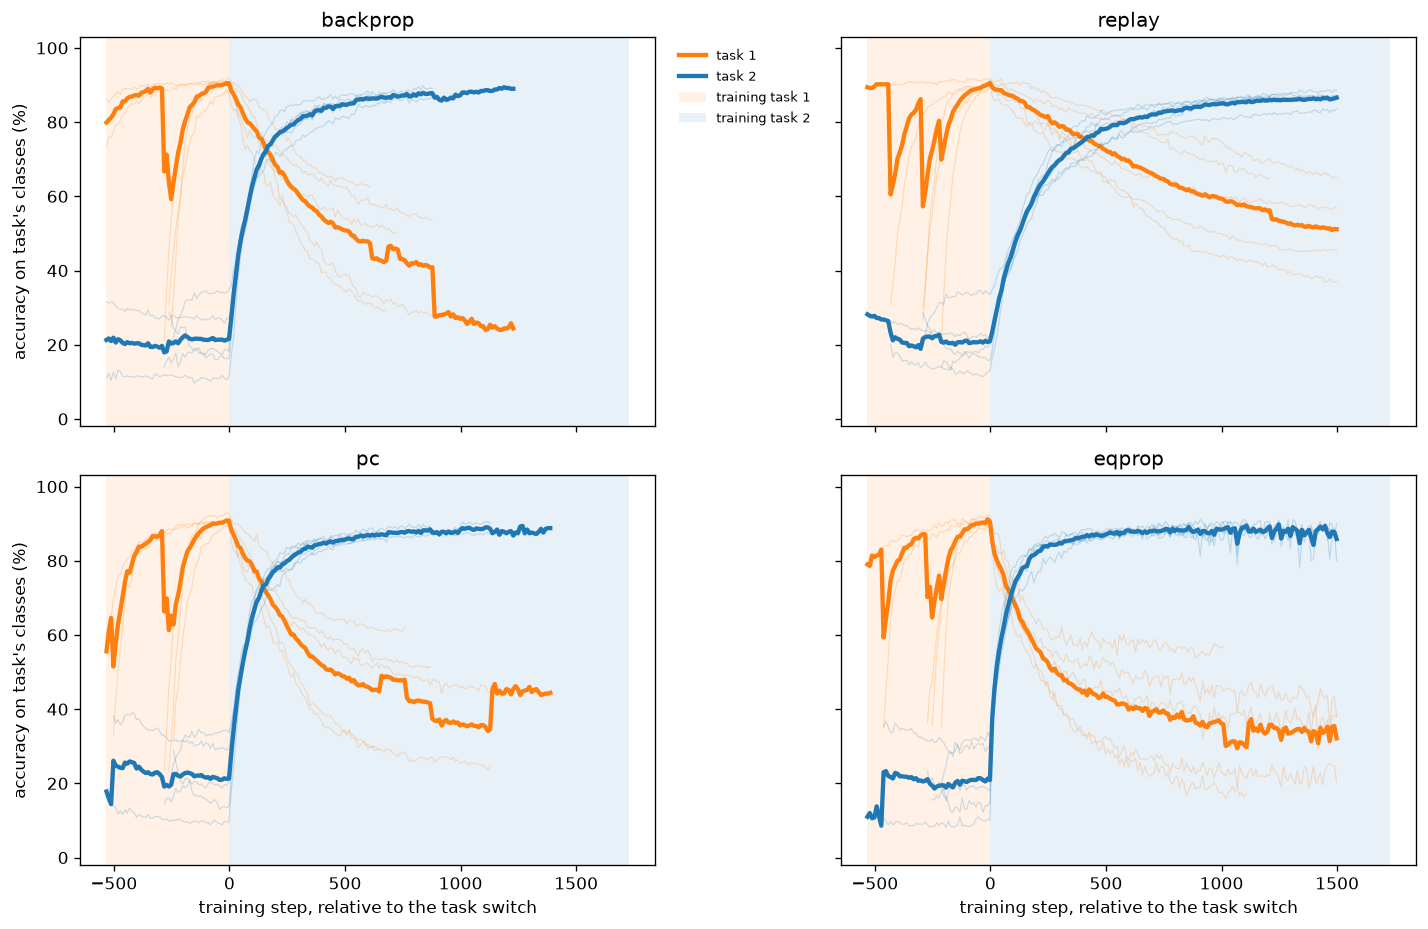
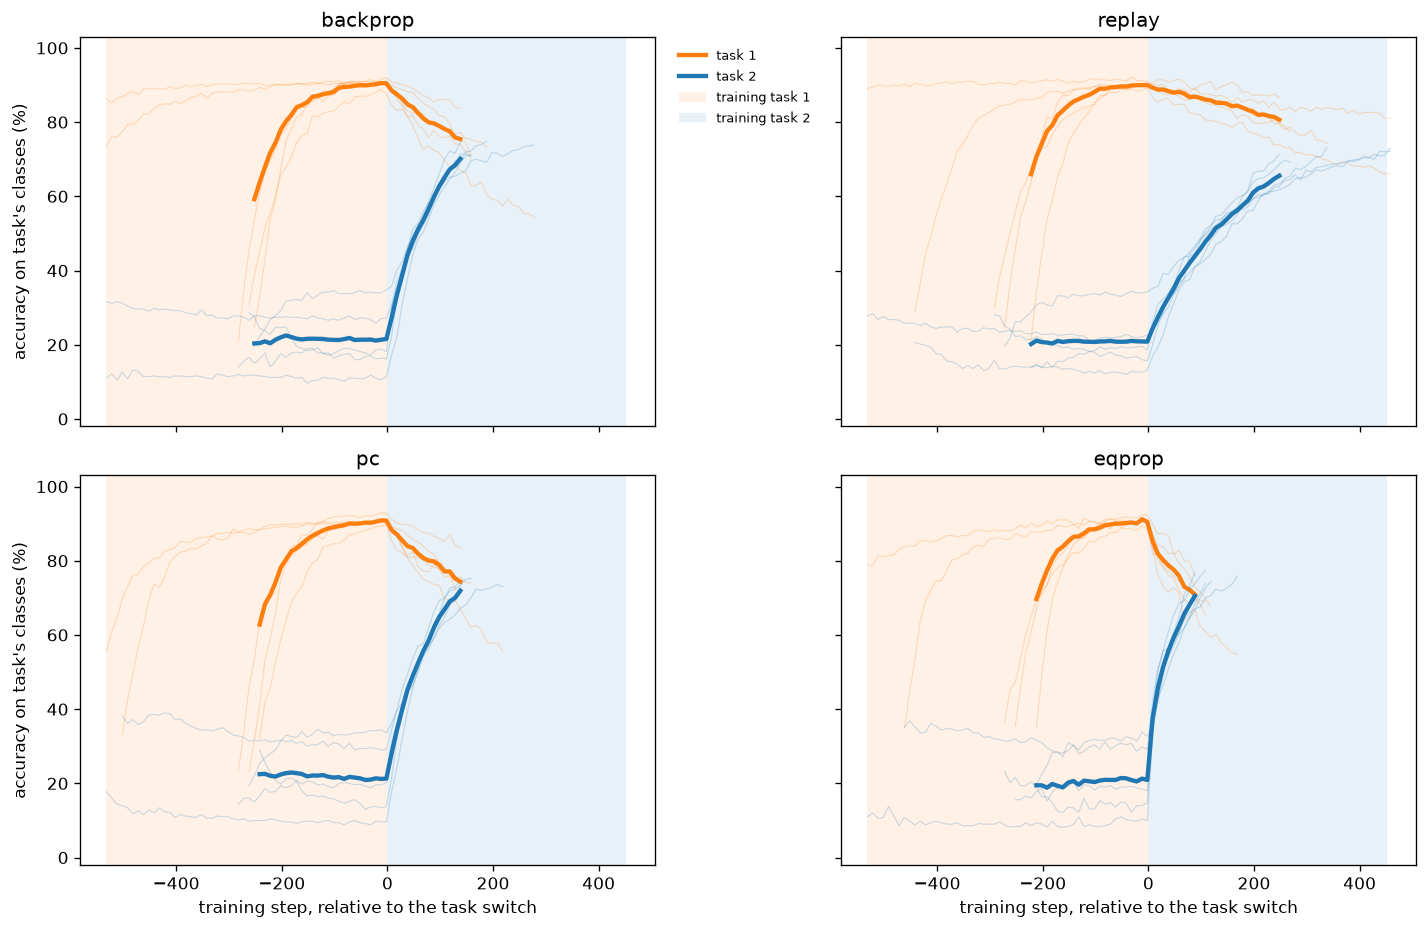
53/57: measure the task-2 threshold under the cap that will be used
Third appearance of the same error class, so it is written into the script
rather than left in a commit message.

53's task-2 threshold was derived from script 52's task-2 "ceilings". But 52
ran a fixed 630-update budget, so those numbers report where each rule had
GOT TO, not where it could get -- replay's 78% was its progress, not its
limit. A ceiling measured under a budget is not a ceiling. Script 41 hit the
identical thing: a short-budget capacity sweep produced a flat region that
looked like a capacity limit and was really the budget binding.

Measured under 53's own 2000-update cap, replay reaches 88.7% and backprop
90.8%, so 85% was available and the derivation had set 70%. At 70% the
reading came far too early to show forgetting: backprop's task-2 block was
186 updates of 2000 and it had fallen only from 90% to 72%, leaving replay
almost nothing to prevent and the four rules within 7 points of each other.

Both scripts now run a pilot that measures the ceiling under MAX_ITERS, the
same cap the real run uses, and set the threshold 3 points below the slowest
rule. Only backprop and replay are piloted: replay spends half of every
batch on task 1 so it is the slowest to learn task 2 and is the binding
constraint, and piloting the energy-based rules would cost more than the
rest of the script.

The control message now distinguishes "replay failed" from "read too early
to tell" by checking how much backprop actually lost. Reporting a working
[…]

diff --git a/experiments/57_do_the_rules_differ_class_il_matched.py b/experiments/57_do_the_rules_differ_class_il_matched.py
@@ -9,7 +9,8 @@ on task 1 -- scripts 42 and 43 measured exactly that -- so an endpoint compariso
 range left and cannot rank anything. Reading at the moment each rule has learned task 2 to one
 standard is the only measurement with anything left to distinguish.
 
-Its task-2 threshold is derived from script 56, so 56 must run first.
+Chance is 10% here, not 20%, and the joint ceiling is 93.6%. Accuracies are NOT comparable with
+the Domain-IL scripts; only the ordering of the rules within a scenario is.
 
 ORIGINAL QUESTION, unchanged: do the rules forget task 1 differently, read at the moment each
 has learned task 2 to the same standard?
@@ -131,30 +132,43 @@ SETTLE_TOL, EQ_MAX_STEPS = float(z51["settle_tol"]), int(z51["eq_max_steps"])
 PC_STEPS = int(z51["pc_steps"])
 T1_THRESHOLD = float(z51["threshold"])          # the standard the learning rates were matched at
 
-# THE TASK-2 T2_THRESHOLD IS DERIVED, NOT ASSUMED, AND THE FIRST ATTEMPT AT THIS SCRIPT FAILED
-# BECAUSE IT WAS ASSUMED. It was set to 90% -- the same as task 1 -- without checking that task
-# 2 can reach 90% from a network already committed to task 1. Replay missed it on 4 of 5 seeds
-# and EqProp on 3, so most runs were never read at matched competence and the whole comparison
-# was void. Task 2 is a harder problem than task 1 was: it starts from a committed network, and
-# replay spends half its gradient preserving task 1 rather than learning the new task.
+# THE TASK-2 THRESHOLD IS MEASURED, UNDER THE CAP THIS SCRIPT ACTUALLY USES. Two attempts got
+# it wrong in different ways, and the second is a repeat of a mistake script 41 already made.
 #
-# So it is read off script 52, which ran the same rules to a long fixed budget and measured what
-# each actually reaches. The threshold is the WORST rule's ceiling with a margin, because a
-# threshold only one rule can reach silently turns the comparison into "the rules that finished,
-# against the rules that were capped".
-z52 = np.load(array_path(str(ROOT / "experiments" /
-                             "56_do_the_rules_differ_class_il.py")))
-reach = {m: float(z52[f"t2_{m}"][0]) for m in [str(x) for x in z52["methods"]]}
-T2_THRESHOLD = np.floor(min(reach.values()) * 0.95 / 5) * 5 / 100    # round down to a 5% step
+#   1. Set to 90% by assumption, the same as task 1. Replay missed it on 4 of 5 seeds, so most
+#      runs were never read at matched competence and the comparison was void.
+#   2. Derived as 70% from script 52's task-2 "ceilings". But 52 ran a FIXED 630-update budget,
+#      so those numbers say where each rule had GOT TO, not where it could get -- replay's 78%
+#      was its progress, not its limit. A CEILING MEASURED UNDER A BUDGET IS NOT A CEILING.
+#      Script 41 hit the same thing: a short-budget capacity sweep produced a flat region that
+#      looked like a capacity limit and was really the budget binding. Measured under this
+#      script's own 2000-update cap, replay reaches 88.7% and backprop 90.8%.
+#      At 70% the reading came far too early to show any forgetting -- backprop's task-2 block
+#      was 186 updates of 2000 and it had fallen only from 90% to 72%, leaving replay with
+#      almost nothing to prevent and the four rules within 7 points of each other.
+#
+# So a pilot measures it here, under MAX_ITERS. Only the two cheap rules are piloted: replay is
+# the slowest to learn task 2 -- it spends half of every batch on task 1 -- so it is the binding
+# constraint, and piloting the energy-based rules would cost more than the rest of the script.
+def _measure_ceiling(data_):
+    """Highest task-2 accuracy the slowest rule actually reaches, under this script's cap."""
+    tops = []
+    for m in ["backprop", "replay"]:
+        p = replace(base, stop_threshold=[T1_THRESHOLD, None], lr={m: LR[m]})
+        for seed in range(SEEDS):
+            o = run(p, m, seed, data=data_)
+            c = o["curves"]["argmax"] * 100
+            i = int(np.argmin(np.abs(np.asarray(o["steps"]) - o["switches"][0])))
+            tops.append(float(c[i:, 1].max()))
+    return min(tops)
+
 
 if "--smoke" in sys.argv:
-    SEEDS, MAX_ITERS, T1_THRESHOLD, T2_THRESHOLD = 1, 60, 0.5, 0.4
+    SEEDS, MAX_ITERS, T1_THRESHOLD = 1, 60, 0.5
     print("--smoke: tiny budget, results are NOT meaningful\n")
 
-print(f"H = {HIDDEN} (41) | task 1 stops at {T1_THRESHOLD:.0%}, task 2 at {T2_THRESHOLD:.0%}"
-      f" | cap {MAX_ITERS} | {SEEDS} seeds")
-print("  task-2 threshold derived from script 52's measured ceilings: "
-      + ", ".join(f"{m} {v:.0f}%" for m, v in reach.items()))
+print(f"H = {HIDDEN} (41) | task 1 stops at {T1_THRESHOLD:.0%} | cap {MAX_ITERS}"
+      f" | {SEEDS} seeds")
 print("  learning rates from 51: " + ", ".join(f"{m} {LR[m]:g}" for m in METHODS) + "\n")
 
 
@@ -168,12 +182,17 @@ def settle_kw(method):
 
 
 base = replace(PROTOCOL, hidden=HIDDEN, scenario="class_il",
-               stop_threshold=[T1_THRESHOLD, T2_THRESHOLD], stop_patience=STOP_PATIENCE,
+               stop_patience=STOP_PATIENCE,
                max_iters_per_task=MAX_ITERS, eval_every=EVAL_EVERY, seeds=SEEDS)
 
 # ---------------------------------------------------------------- run
 # Runs have different lengths, so they are kept as per-seed dicts rather than stacked.
 data = load(base)
+_ceiling = 60.0 if SMOKE else _measure_ceiling(data)
+T2_THRESHOLD = float(np.floor((_ceiling - 3.0) / 5.0) * 5.0 / 100.0)
+print(f"  pilot: the slowest rule reaches {_ceiling:.1f}% on task 2 under a {MAX_ITERS} cap"
+      f"  ->  task 2 stops at {T2_THRESHOLD:.0%}\n")
+base = replace(base, stop_threshold=[T1_THRESHOLD, T2_THRESHOLD])
 runs = {m: [] for m in METHODS}
 t0 = time.perf_counter()
 
@@ -226,8 +245,13 @@ for m in METHODS:
 
 bp, rp = summary["backprop"]["kept"][0], summary["replay"]["kept"][0]
 print(f"\n  controls: backprop keeps {bp:.1f}%, replay keeps {rp:.1f}%.")
+drop = summary["backprop"]["at_switch"][0] - bp
 print("  " + ("Replay recovers task 1, so retention IS achievable here."
               if rp > bp + 10 else
+              f"backprop has lost only {drop:.0f} points by this threshold, so there is barely "
+              f"anything for replay\n  to prevent. The reading is TOO EARLY to separate the "
+              f"rules -- raise the task-2 threshold.\n  This is not a failure of the control."
+              if drop < 30 else
               "REPLAY DID NOT RECOVER TASK 1. The positive control failed; nothing else on this "
               "figure can be interpreted."))
 for m in METHODS:

diff --git a/experiments/53_do_the_rules_differ_at_matched_competence.py b/experiments/53_do_the_rules_differ_at_matched_competence.py
@@ -118,30 +118,43 @@ SETTLE_TOL, EQ_MAX_STEPS = float(z51["settle_tol"]), int(z51["eq_max_steps"])
 PC_STEPS = int(z51["pc_steps"])
 T1_THRESHOLD = float(z51["threshold"])          # the standard the learning rates were matched at
 
-# THE TASK-2 T2_THRESHOLD IS DERIVED, NOT ASSUMED, AND THE FIRST ATTEMPT AT THIS SCRIPT FAILED
-# BECAUSE IT WAS ASSUMED. It was set to 90% -- the same as task 1 -- without checking that task
-# 2 can reach 90% from a network already committed to task 1. Replay missed it on 4 of 5 seeds
-# and EqProp on 3, so most runs were never read at matched competence and the whole comparison
-# was void. Task 2 is a harder problem than task 1 was: it starts from a committed network, and
-# replay spends half its gradient preserving task 1 rather than learning the new task.
+# THE TASK-2 THRESHOLD IS MEASURED, UNDER THE CAP THIS SCRIPT ACTUALLY USES. Two attempts got
+# it wrong in different ways, and the second is a repeat of a mistake script 41 already made.
 #
-# So it is read off script 52, which ran the same rules to a long fixed budget and measured what
-# each actually reaches. The threshold is the WORST rule's ceiling with a margin, because a
-# threshold only one rule can reach silently turns the comparison into "the rules that finished,
-# against the rules that were capped".
-z52 = np.load(array_path(str(ROOT / "experiments" /
-                             "52_do_the_rules_differ_fixed_budget.py")))
-reach = {m: float(z52[f"t2_{m}"][0]) for m in [str(x) for x in z52["methods"]]}
-T2_THRESHOLD = np.floor(min(reach.values()) * 0.95 / 5) * 5 / 100    # round down to a 5% step
+#   1. Set to 90% by assumption, the same as task 1. Replay missed it on 4 of 5 seeds, so most
+#      runs were never read at matched competence and the comparison was void.
+#   2. Derived as 70% from script 52's task-2 "ceilings". But 52 ran a FIXED 630-update budget,
+#      so those numbers say where each rule had GOT TO, not where it could get -- replay's 78%
+#      was its progress, not its limit. A CEILING MEASURED UNDER A BUDGET IS NOT A CEILING.
+#      Script 41 hit the same thing: a short-budget capacity sweep produced a flat region that
+#      looked like a capacity limit and was really the budget binding. Measured under this
+#      script's own 2000-update cap, replay reaches 88.7% and backprop 90.8%.
+#      At 70% the reading came far too early to show any forgetting -- backprop's task-2 block
+#      was 186 updates of 2000 and it had fallen only from 90% to 72%, leaving replay with
+#      almost nothing to prevent and the four rules within 7 points of each other.
+#
+# So a pilot measures it here, under MAX_ITERS. Only the two cheap rules are piloted: replay is
+# the slowest to learn task 2 -- it spends half of every batch on task 1 -- so it is the binding
+# constraint, and piloting the energy-based rules would cost more than the rest of the script.
+def _measure_ceiling(data_):
+    """Highest task-2 accuracy the slowest rule actually reaches, under this script's cap."""
+    tops = []
+    for m in ["backprop", "replay"]:
+        p = replace(base, stop_threshold=[T1_THRESHOLD, None], lr={m: LR[m]})
+        for seed in range(SEEDS):
+            o = run(p, m, seed, data=data_)
+            c = o["curves"]["argmax"] * 100
+            i = int(np.argmin(np.abs(np.asarray(o["steps"]) - o["switches"][0])))
+            tops.append(float(c[i:, 1].max()))
+    return min(tops)
+
 
 if "--smoke" in sys.argv:
-    SEEDS, MAX_ITERS, T1_THRESHOLD, T2_THRESHOLD = 1, 60, 0.5, 0.4
+    SEEDS, MAX_ITERS, T1_THRESHOLD = 1, 60, 0.5
     print("--smoke: tiny budget, results are NOT meaningful\n")
 
-print(f"H = {HIDDEN} (41) | task 1 stops at {T1_THRESHOLD:.0%}, task 2 at {T2_THRESHOLD:.0%}"
-      f" | cap {MAX_ITERS} | {SEEDS} seeds")
-print("  task-2 threshold derived from script 52's measured ceilings: "
-      + ", ".join(f"{m} {v:.0f}%" for m, v in reach.items()))
+print(f"H = {HIDDEN} (41) | task 1 stops at {T1_THRESHOLD:.0%} | cap {MAX_ITERS}"
+      f" | {SEEDS} seeds")
 print("  learning rates from 51: " + ", ".join(f"{m} {LR[m]:g}" for m in METHODS) + "\n")
 
 
@@ -155,12 +168,17 @@ def settle_kw(method):
 
 
 base = replace(PROTOCOL, hidden=HIDDEN, scenario="domain_il",
-               stop_threshold=[T1_THRESHOLD, T2_THRESHOLD], stop_patience=STOP_PATIENCE,
+               stop_patience=STOP_PATIENCE,
                max_iters_per_task=MAX_ITERS, eval_every=EVAL_EVERY, seeds=SEEDS)
 
 # ---------------------------------------------------------------- run
 # Runs have different lengths, so they are kept as per-seed dicts rather than stacked.
 data = load(base)
+_ceiling = 60.0 if SMOKE else _measure_ceiling(data)
+T2_THRESHOLD = float(np.floor((_ceiling - 3.0) / 5.0) * 5.0 / 100.0)
+print(f"  pilot: the slowest rule reaches {_ceiling:.1f}% on task 2 under a {MAX_ITERS} cap"
+      f"  ->  task 2 stops at {T2_THRESHOLD:.0%}\n")
+base = replace(base, stop_threshold=[T1_THRESHOLD, T2_THRESHOLD])
 runs = {m: [] for m in METHODS}
 t0 = time.perf_counter()
 
@@ -213,8 +231,13 @@ for m in METHODS:
 
 bp, rp = summary["backprop"]["kept"][0], summary["replay"]["kept"][0]
 print(f"\n  controls: backprop keeps {bp:.1f}%, replay keeps {rp:.1f}%.")
+drop = summary["backprop"]["at_switch"][0] - bp
 print("  " + ("Replay recovers task 1, so retention IS achievable here."
               if rp > bp + 10 else
+              f"backprop has lost only {drop:.0f} points by this threshold, so there is barely "
+              f"anything for replay\n  to prevent. The reading is TOO EARLY to separate the "
+              f"rules -- raise the task-2 threshold.\n  This is not a failure of the control."
+              if drop < 30 else
               "REPLAY DID NOT RECOVER TASK 1. The positive control failed; nothing else on this "
               "figure can be interpreted."))
 for m in METHODS:
